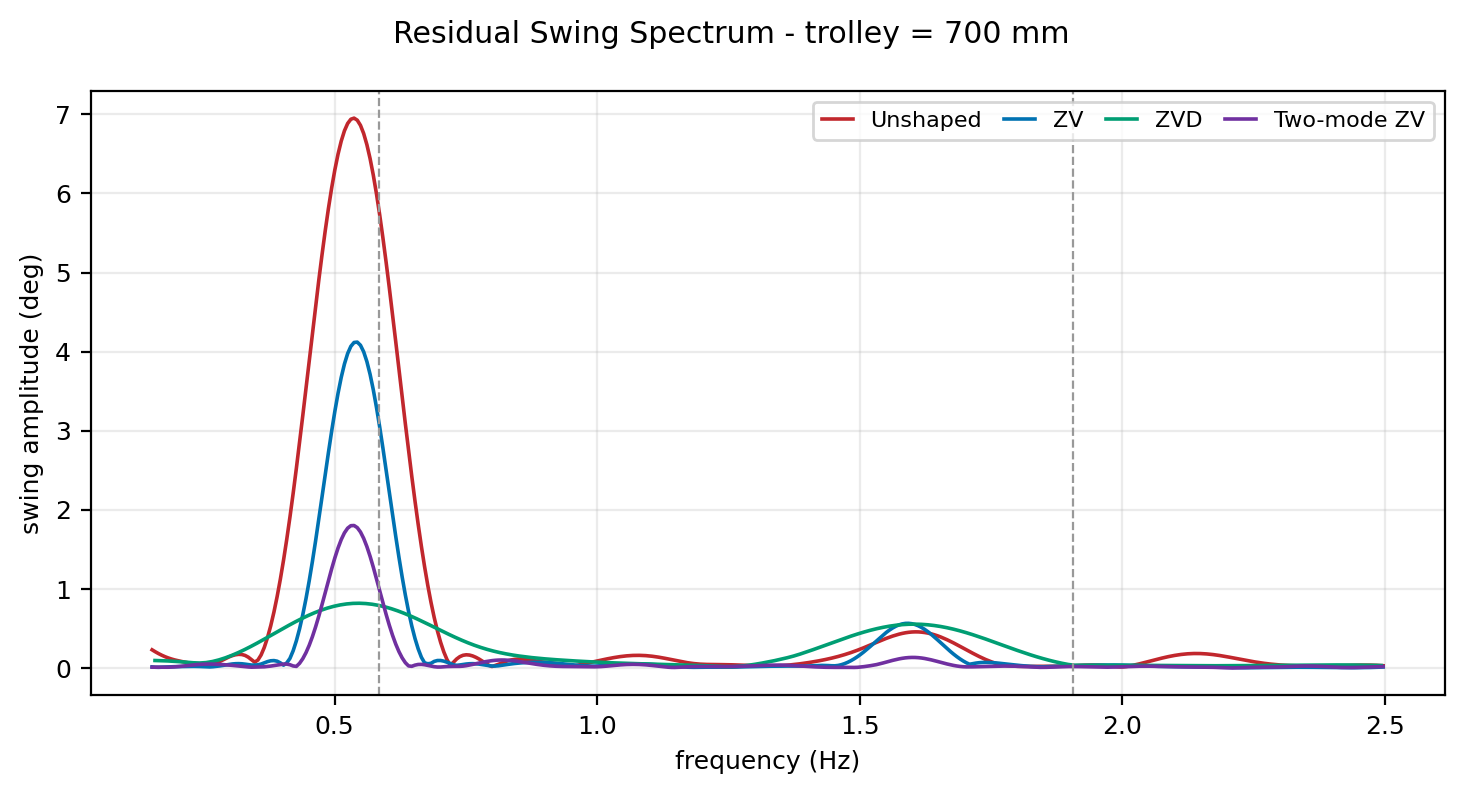
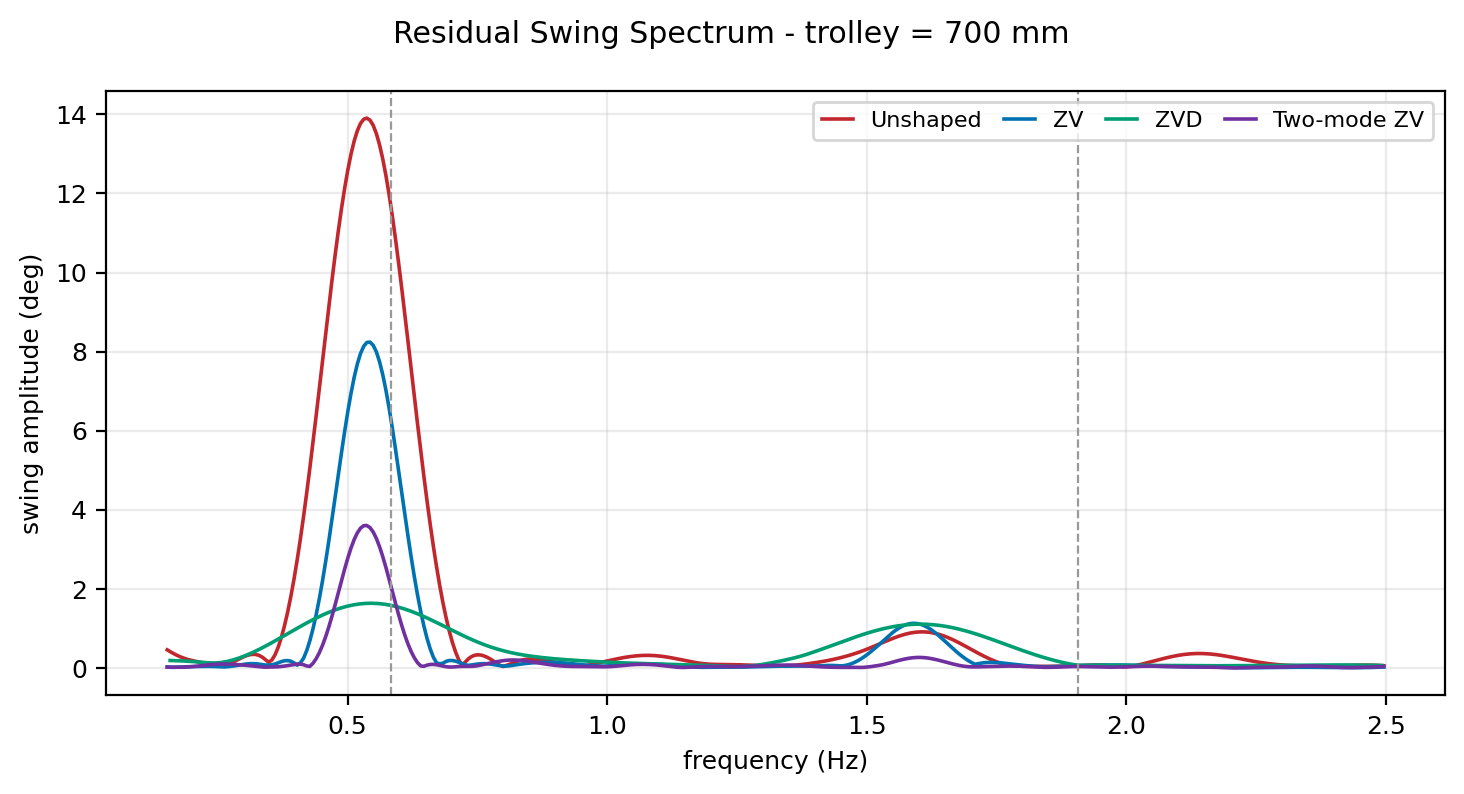
Fix Hann-window amplitude scaling in the swing spectra
figs 11 and 15 applied a Hann window but scaled the single-sided
amplitude spectrum by 2/N, which is only correct for an unwindowed
transform. A Hann window has a coherent gain of 0.5, so the scaling is
4/N; every plotted amplitude was reported at half its true value.
Verified against a synthetic 10 deg sine, which the old scaling read as
4.99 deg and the new one reads as 9.99 deg.

Only the y axis of those two figures was affected. The mode frequencies
and every amplitude in the tables come from separate code paths that do
not use this scaling.

diff --git a/Fall 2026/Adv Control/Lab 2/analysis/s5_figures.py b/Fall 2026/Adv Control/Lab 2/analysis/s5_figures.py
@@ -418,7 +418,7 @@ def fig11(tt, radius=900):
         tu = np.arange(tt_[0], tt_[-1], dt)
         yu = np.interp(tu, tt_, yy) * np.hanning(tu.size)
         n = 1 << int(np.ceil(np.log2(tu.size * 8)))
-        spec = np.abs(np.fft.rfft(yu, n)) * 2 / tu.size
+        spec = np.abs(np.fft.rfft(yu, n)) * 4 / tu.size   # 4/N: Hann coherent gain 0.5
         f = np.fft.rfftfreq(n, dt)
         m = (f > 0.15) & (f < 3.0)
         ax.semilogy(f[m], spec[m], color=C[sh], label=sh)
@@ -584,7 +584,18 @@ def fig14(tt):
 
 
 def fig15(tt, radius=700):
-    """Residual swing spectrum at one radius, tangential + radial combined."""
+    """Residual swing spectrum at one radius, tangential + radial combined.
+
+    Frequencies are FFT bin centres, f_k = k / (n*dt) with dt = 20 ms.  The
+    transform is zero-padded to 8x the record length, which INTERPOLATES the
+    spectrum so peaks are easy to read off; it does not add real resolution,
+    which stays at 1/T set by the record length.
+
+    Amplitude scaling: a Hann window has a coherent gain of 0.5, so a
+    single-sided amplitude spectrum needs 4/N, not the 2/N that is correct for
+    an unwindowed transform.  Using 2/N here reported every amplitude at half
+    its true value.
+    """
     fig, ax = plt.subplots(figsize=(7.4, 4.0))
     for sh in TOWER_ORDER:
         sub = tt[(tt.shaper == sh) & (tt.trolley_nom_mm == radius)]
@@ -601,7 +612,7 @@ def fig15(tt, radius=700):
             tu = np.arange(tt_[0], tt_[-1], dt)
             yu = np.interp(tu, tt_, yy) * np.hanning(tu.size)
             n = 1 << int(np.ceil(np.log2(tu.size * 8)))
-            sp = np.abs(np.fft.rfft(yu, n)) * 2 / tu.size
+            sp = np.abs(np.fft.rfft(yu, n)) * 4 / tu.size   # 4/N: Hann coherent gain 0.5
             freq = np.fft.rfftfreq(n, dt)
             spec_sum = sp if spec_sum is None else spec_sum + sp
         m = (freq > 0.15) & (freq < 2.5)
